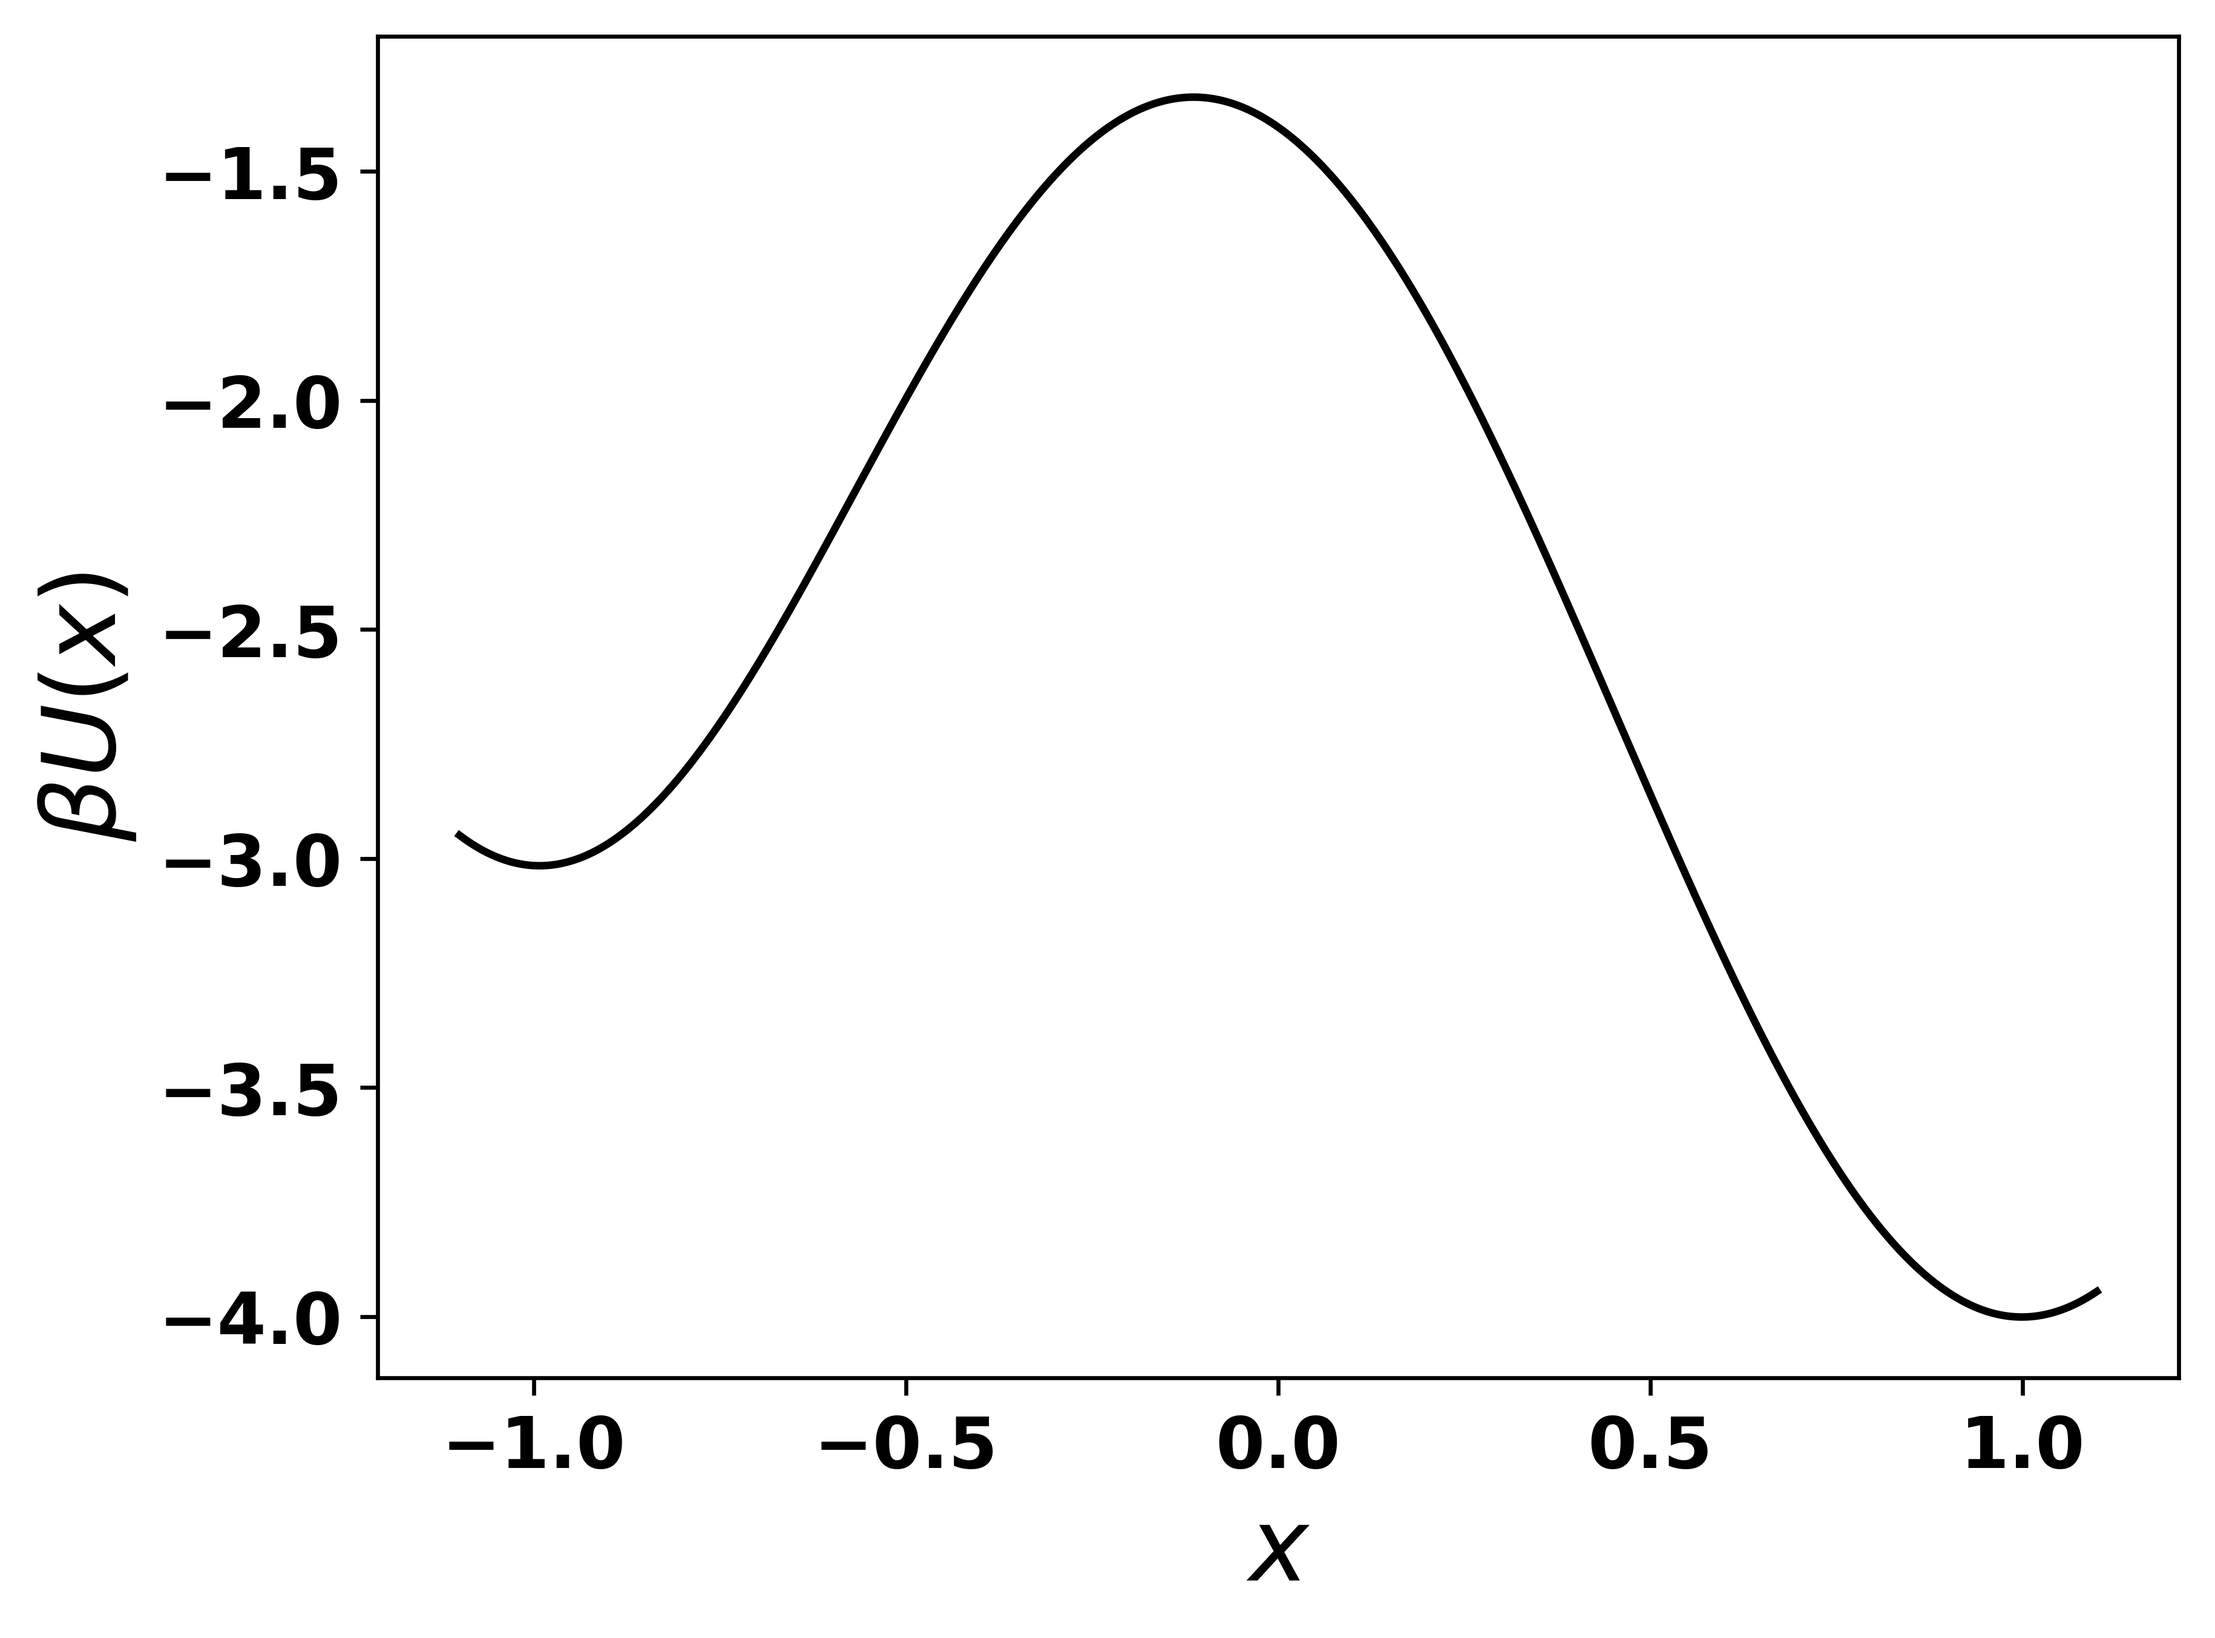
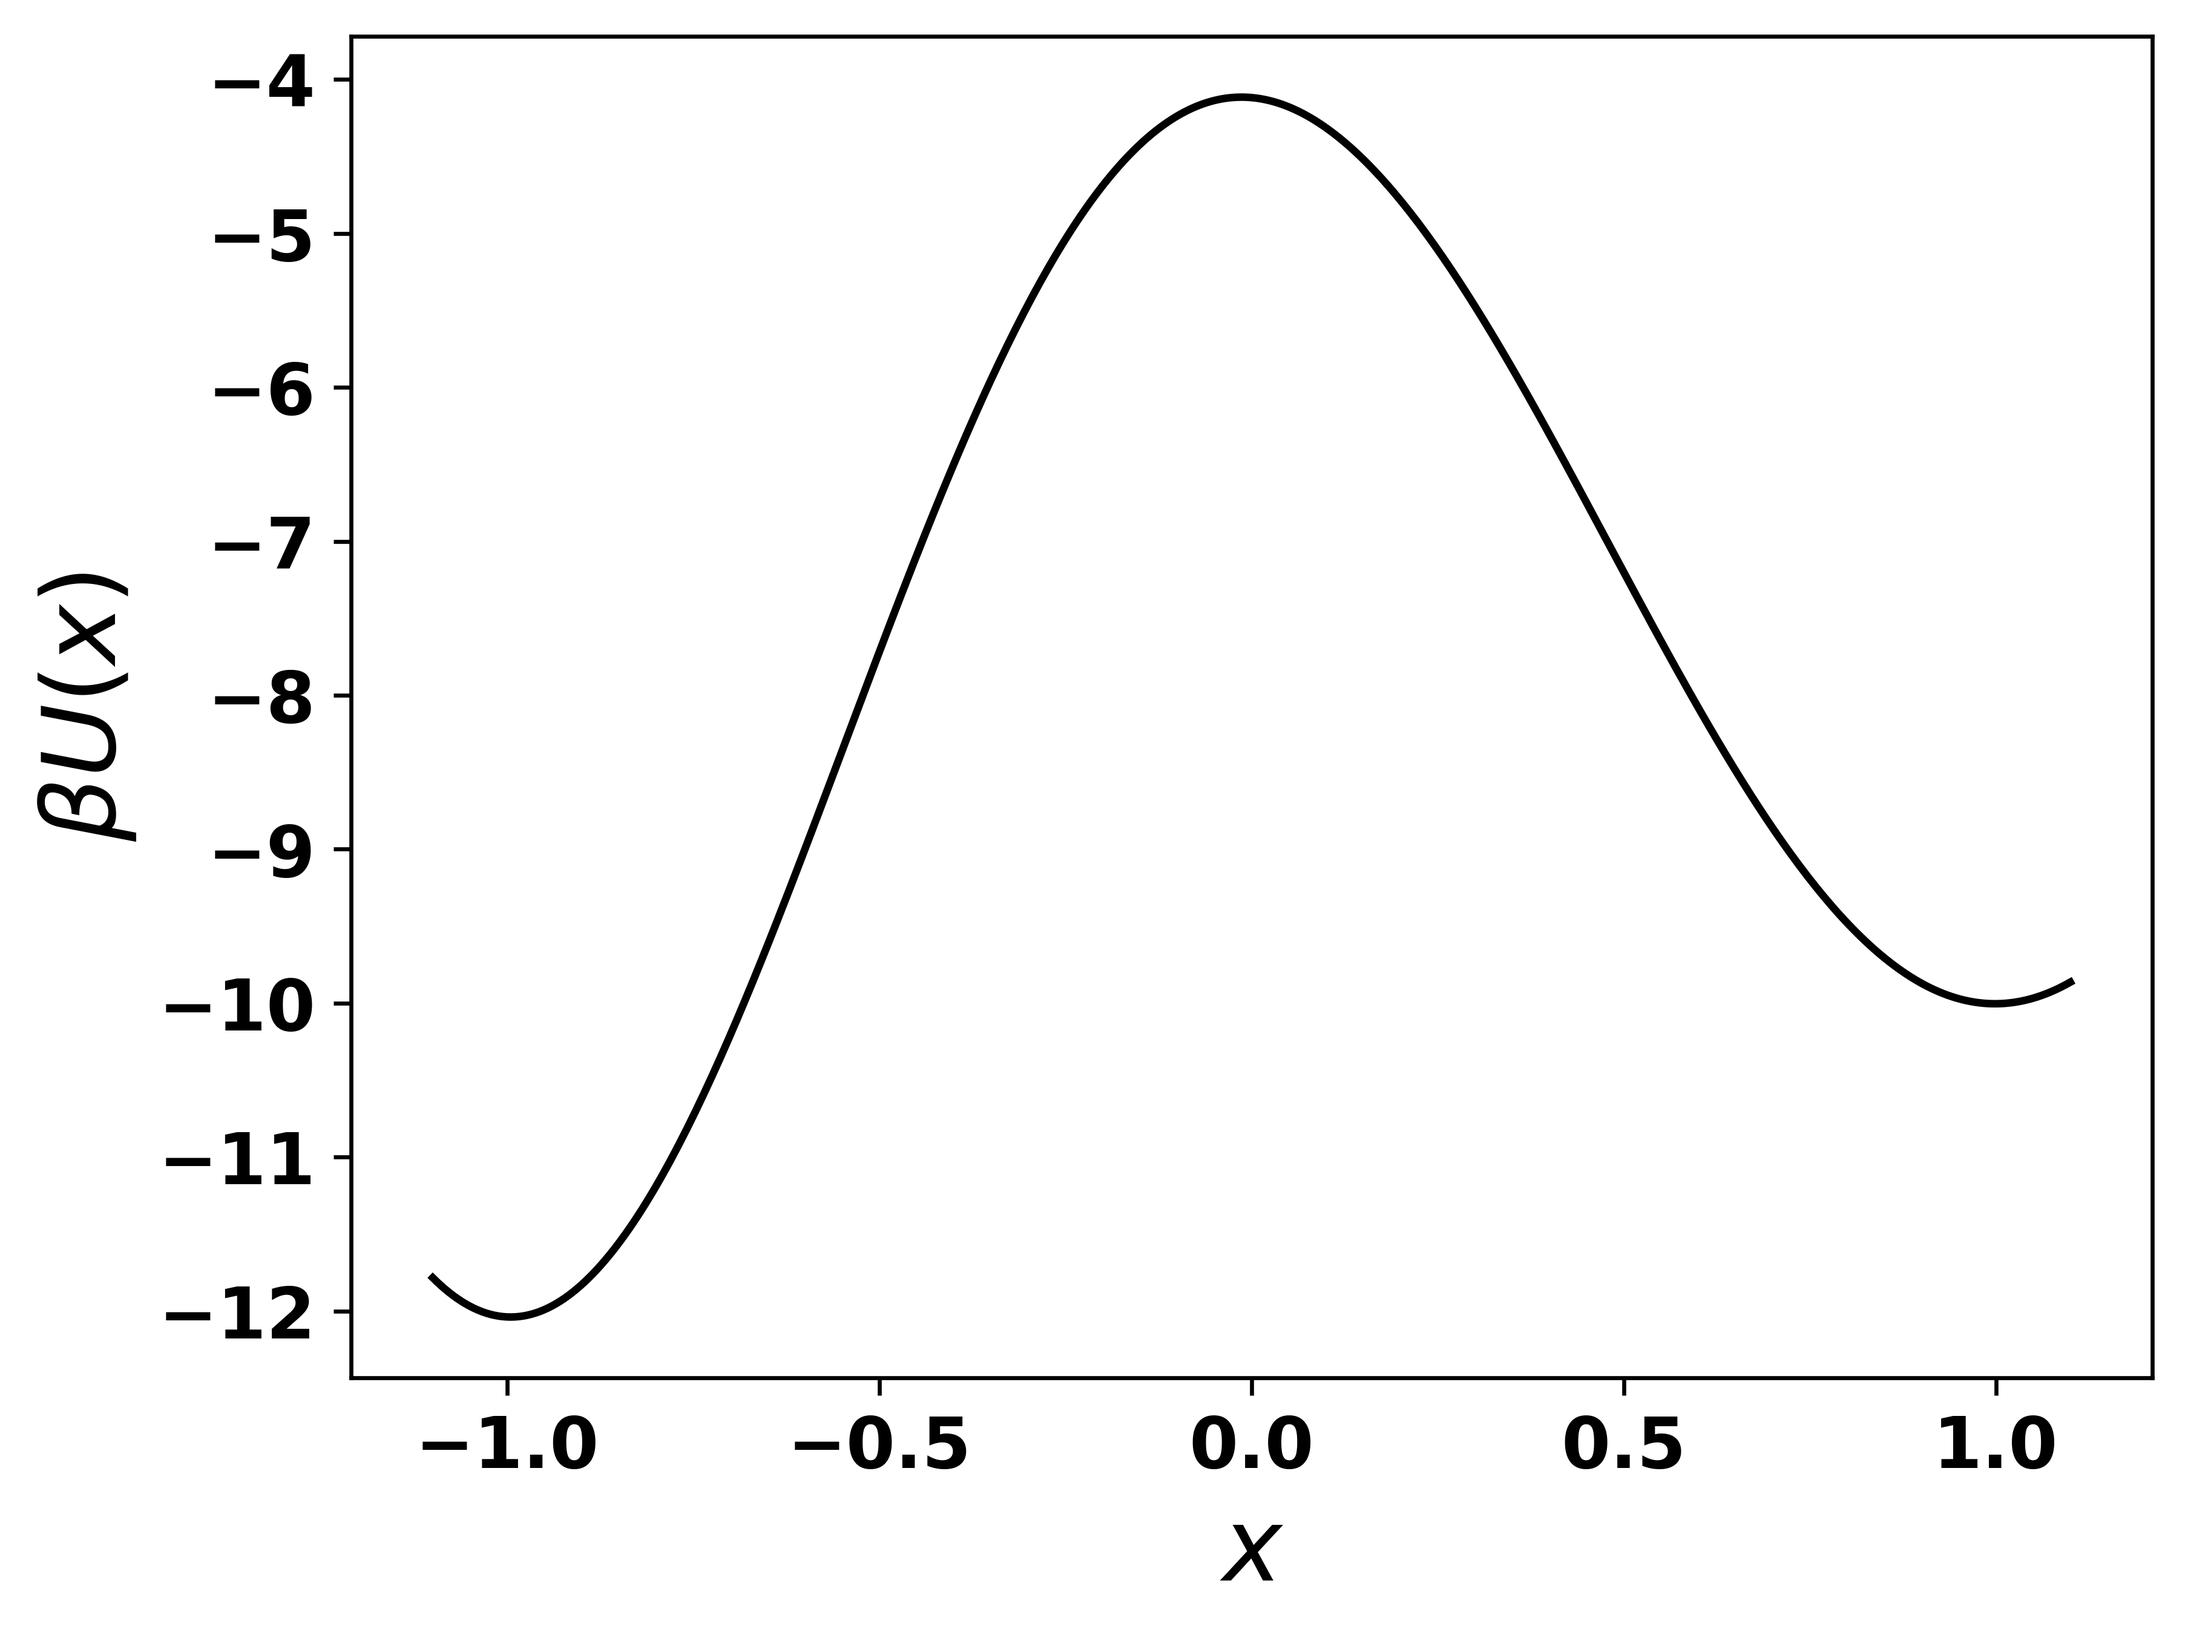
Add plot script and nicer plots for Reguera method (medium barrier RW)

diff --git a/Reguera_method/Random_walk_Model/reguera_reconst_plot.py b/Reguera_method/Random_walk_Model/reguera_reconst_plot.py
@@ -5,8 +5,8 @@ from scipy.integrate import quad
 from scipy.interpolate import interp1d, PchipInterpolator, CubicSpline
 
 # Define the double-well potential using two Gaussian functions
-def double_gaussian_potential(x, A1=3, mu1=-1, sigma1=0.5, A2=4, mu2=1, sigma2=0.6):
-# def double_gaussian_potential(x, A1=12, mu1=-1, sigma1=0.5, A2=10, mu2=1, sigma2=0.6):
+# def double_gaussian_potential(x, A1=3, mu1=-1, sigma1=0.5, A2=4, mu2=1, sigma2=0.6):
+def double_gaussian_potential(x, A1=12, mu1=-1, sigma1=0.5, A2=10, mu2=1, sigma2=0.6):
 # def double_gaussian_potential(x, A1=30, mu1=-1, sigma1=0.5, A2=25, mu2=1, sigma2=0.6):
     V1 = A1 * np.exp(-((x - mu1)**2) / (2 * sigma1**2))
     V2 = A2 * np.exp(-((x - mu2)**2) / (2 * sigma2**2))
